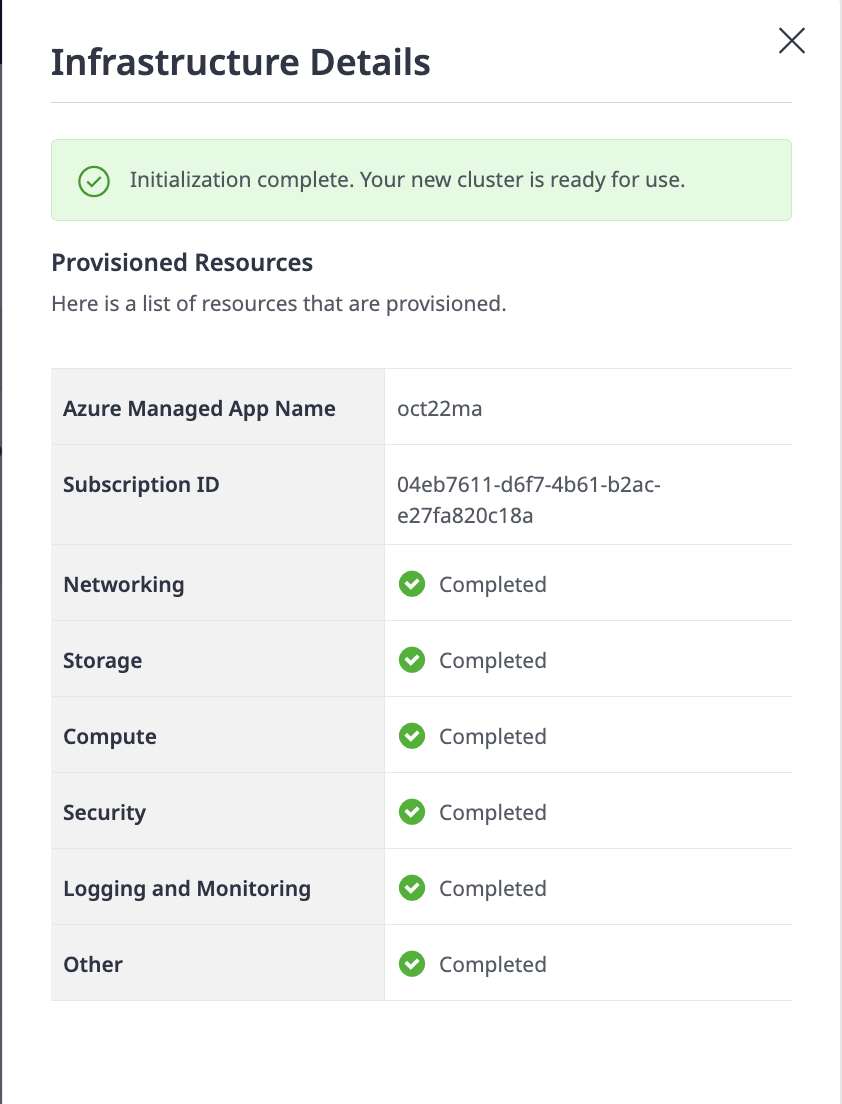
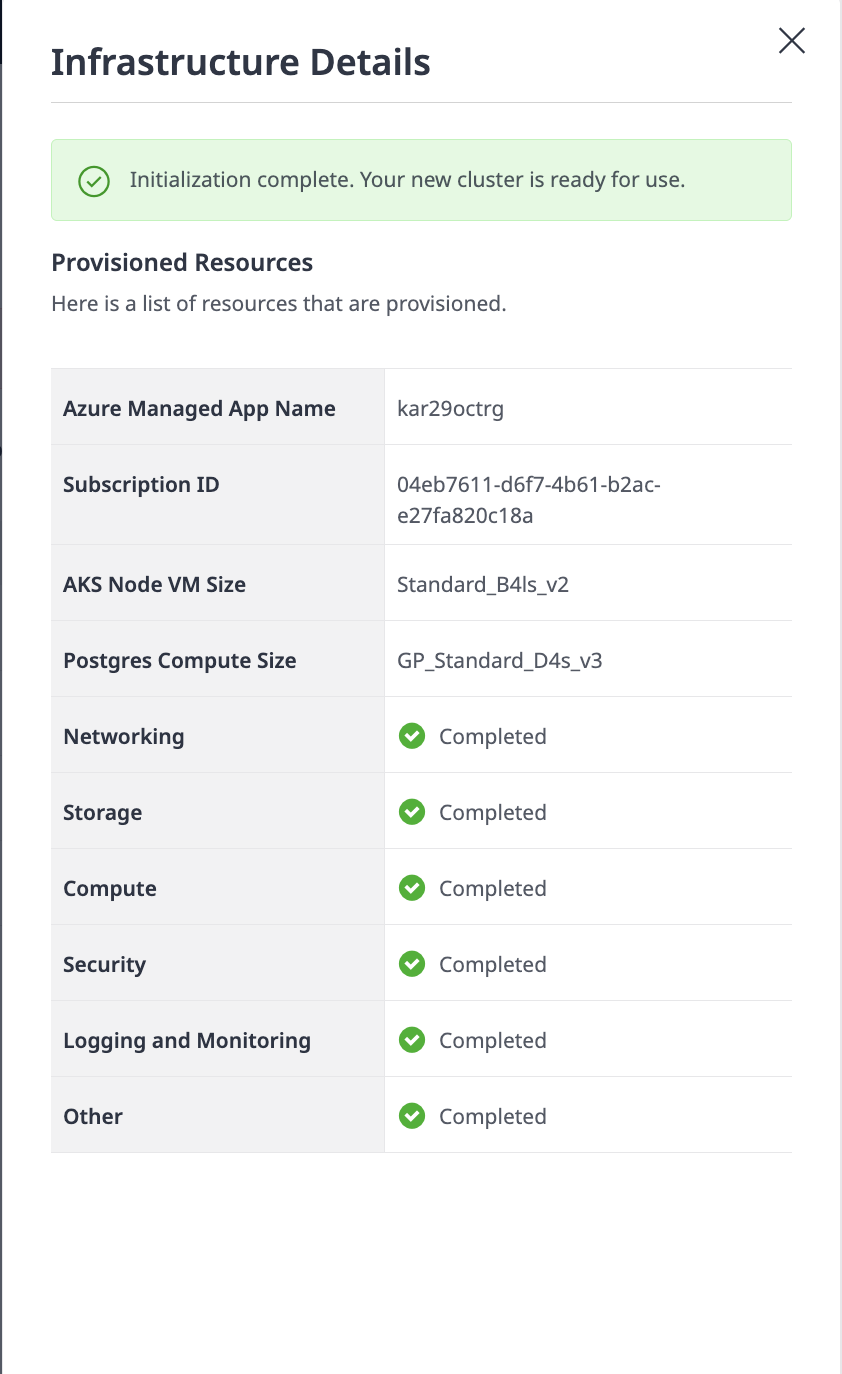
New release notes for Private cloud and Azure. Along with that Support policy updated

diff --git a/content/en/docs/deployment/mx-azure/mx-azure-support.md b/content/en/docs/deployment/mx-azure/mx-azure-support.md
@@ -13,8 +13,28 @@ To facilitate sharing this information with internal stakeholders, a downloadabl
 
 This document outlines the technical support policies and limitations for Mendix on Azure, based on the shared responsibility model that underpins the offering.
 
+{{< figure src="/attachments/deployment/mx-azure/SharedResponsibility.png" class="no-border" >}}
+
+## Managed nature of Mendix on Azure
+With Mendix on Azure, you get a managed service to host Mendix apps in an Azuresubscription you own. The Mendix on Azure service is comprised of several underlying Azure services combined with three Mendix-specific components (the Mendix Runtime, Operator and Agent). Mendix deploys and operates all services and components within the scope of the Mendix on Azure service for you.
+
+Hosting Mendix apps on underlying Azure services you deploy and operate yourself (as can be done by adopting our Mendix on Kubernetes offering) provides you maximal low-level choice, control and customization options with regards to these underlying services. By contrast, Mendix on Azure only provides you a relatively limited set of customization options with regards to these underlying services. 
+In exchange, you don’t need to worry about deploying or managing these underlying Azure services yourself. In this manner, Mendix onAzure provides you a turnkey solution for hosting Mendix apps on Azure.
+
+Mendix deploys and manages the following components and services as part of Mendix on Azure: 
+* Azure Kubernetes Service with Managed NGINX Ingress Controller (app routing add-on)
+* Azure PostgreSQL Flexible Server and Azure PostgreSQL Flexible Server replica (if enabled)
+* Azure Container Registry
+* Azure Blob Storage
+* Azure Managed Grafana
+* Azure Managed Prometheus
+* Azure Virtual Network including Private Endpoints 
+* Mendix Runtime 
+* Mendix Operator
+* Mendix Agent 
+
 {{% alert color="info" %}}  
-Before proceeding, familiarize yourself with the general Mendix support policies available in [Mendix Support](/support/).  
+These components are managed in the sense that Mendix deploys and operates them in such a manner that they work together to form a Mendix app hosting service. As a consequence, customers cannot alter these underlying components themselves beyond what is described in the next paragraph.
 {{% /alert %}}
 
 ## Shared Responsibility Model for Mendix on Azure
@@ -27,7 +47,7 @@ Microsoft manages and secures the Azure services that underlie Mendix on Azure. 
 
 * Compute - Azure Kubernetes Service (AKS)  
 * Storage - Azure Blob Storage, Azure Container Registry  
-* Database - PostgreSQL Flexible Server  
+* Database - PostgreSQL Flexible Server, Postgres replica
 * Networking - Virtual Networks, Load Balancer, Private Endpoints  
 * Monitoring - Managed Grafana and Prometheus  
 
@@ -51,13 +71,42 @@ Customers are accountable for developing, deploying, operating, integrating, and
 * Integrating - Securing integrations with backend services and IAM
 * Securing - Following Mendix best practices for secure apps
 
-## Available Customizations
 
-During cluster initialization, all components needed to host Mendix apps are deployed automatically inside an Azure Resource Group you select. Mendix and Microsoft regularly apply mandatory automated updates to keep clusters compliant and secure.
+## Limited customizabilty
 
-Due to this automation, direct modification of these components in Azure or control over the upgrade process is not possible. Customizations are limited to options exposed via the Mendix on Azure, Microsoft Azure, and Mendix on Kubernetes portals. Current allowed customizations include those documented in the [Configuration section](/developerportal/deploy/mendix-on-azure/configuration/).
+When a Mendix on Azure cluster is initialized, all components that are required to host Mendix apps are automatically deployed inside an Azure resource group in the subscription of your choosing. Regularly, Mendix and Microsoft will push all required updates to this resource group to ensure it remains compliant and secure. 
 
-Any modifications outside this documented scope are not supported.
+In order to be able to push these updates to all Mendix on Azure customers in an automated, predictable and consistent manner, you as a customer will not be able to modify any of these components directly in Azure nor can you influence this upgrade process. As a consequence, any customization beyond what is described below is not possible. 
+
+Currently the following customizations are offered self-service via the Mendix on Azure portal:
+
+* Custom tags on deployed Azure resources 
+* Set Azure Kubernetes Service tier 
+* Set Azure Kubernetes agent node VM type 
+* Set maximum AKS agent node pool size (i.e. upper autoscaling limit) 
+* Set Azure for PostgreSQL Flexible server computing SKU and storage performance tier 
+* Switch to internal load balancer exposure to enable apps that can only be reached privately 
+* Switch to internal Grafana exposure to prevent exposure to the public internet 
+* Change IP address prefix of the subnet hosting AKS nodes (only at initial deployment)
+
+Currently the following customizations are allowed to be done by the customer directly via Microsoft Azure Portal in order to establish connectivity to/from other networks and/or Azure services:
+
+* Configure virtual network peerings with the subnet hosting AKS nodes 
+* Override DNS configuration on the subnet hosting AKS nodes 
+* Configure Private Link Service to expose Mendix apps in other Azure virtual networks 
+* Configure Private Endpoints to establish connectivity between Mendix apps and other services 
+
+Mendix limits customization to what is described above to ensure a consistent, predictable and scalable customer experience.
+
+## Access to your environment by Mendix
+
+By deploying Mendix on Azure from the Azure Marketplace you provide consent for Mendix to deploy and operate the resources required for Mendix on Azure in the chosen resource group. The mechanism used by Mendix to fulfil this access is provided by Microsoft - i.e. publisher access to a Managed Application - and by definition limits the access Mendix has to your Azure subscription to the resources deployed. 
+
+Mendix will use this access for the following purposes:
+* Initial initialisation of the cluster (as initiated by the customer from Mendix on Azure portal) 
+* Pushing regular service updates (automatically, see description in the next paragraph) 
+* Pushing ad-hoc emergency updates or configuration changes to avoid service disruptions (by exception and at discretion of Mendix) 
+* To troubleshoot incidents on behalf of the customer (after raising of a support ticket by the customer)
 
 ## Support Tickets
 
@@ -110,17 +159,21 @@ These automated upgrade cadences cannot be modified by customers.
 
 ## Mendix Support Coverage Examples
 
-The following scenarios are supported:
+Mendix provides technical support for the following example scenarios: 
 
-* Cluster initialization fails despite passing pre-flight checks.
-* Service availability issues are not resolvable through self-service recovery.
+* Cluster initialization fails despite passing pre-flight validation checks 
+* Customer is experiencing service availability issues and is unable to recover the situation using the self-service recovery option.
 
-The following scenarios are not supported:
+## Mendix does not provide technical support in the following example scenarios: 
 
-* Consultations on integrations with other Azure services outside the Mendix on Azure scope; consider Mendix Expert Services or partners for consultancy.
-* Configuration changes to Azure services beyond self-service options; Mendix on Kubernetes may offer more flexibility.
-* Customizations to Azure subscription resources beyond the supported scope.
-* Manual fixes for security vulnerabilities beyond the automated update cycles.
+* Requests about how to integrate with other Azure Services that are beyond the scope of the product. Such requests can be supported by Mendix Expert Services or Mendix (infra) partners as part of (paid) consultancy engagements. 
+* Requests to make configuration changes to underlying Azure services beyond what is offered as self-service in the Mendix on Azure and Mendix Private Cloud Portal. Since such changes are not possible with this service, customer may consider to adopt Mendix on Kubernetes (formerly Mendix for Private Cloud) instead.
+* Requests for any other type of customization on the resources deployed in customer’s Azure subscription. Since such customization is not possible with this service, customer may consider to adopt Mendix for Kubernetes (formerly Mendix for Private Cloud) instead. 
+* Requests to fix security vulnerabilities in one of the managed components beyond what is automatically pushed during the weekly and quarterly update cycles.
+
+{{% alert color="warning" %}}  
+The state of the resources in the customer subscription nor overall service availability are proactively monitored by Mendix. As a consequence, any degradation in service will only reactively be addressed by Mendix after customer has notified Mendix of such degradation by filing a support ticket.
+{{% /alert %}}
 
 ## Customer Responsibilities for Mendix on Azure Resources
 
@@ -137,6 +190,15 @@ Mendix mitigates these impacts by:
 * Quarterly regression testing and workarounds where feasible  
 * Collaboration with Microsoft Support and engineering for upstream fixes  
 * Transparent communication and guidance on workarounds for affected customers  
+
+## Backup, restore, data migration & disaster recovery
+
+Mendix on Azure provides the following features to allow customers to self-service their needs with regards to backup, restore, data migration & disaster recovery: 
+
+* Mendix on Azure provides per-app environment snapshotting capabilities that allow customers to backup & restore all relevant app data from/to an environment via selfservice on the Mendix Private Cloud Portal. 
+* Mendix on Azure creates automated nightly backup snapshots for every Mendix app environment (feature is under development and to be released in the third quarter of 2025). 
+* All backup snapshots are stored in an Azure Storage Account hosted on the customer’s Azure subscription. Mendix has prepared an emergency procedure which can be performed in collaboration with the customer in case the Azure Storage Account holding the backup snapshots would accidentally get deleted from Azure. 
+* Individual backup snapshots can be downloaded and uploaded from/into a customer’s Mendix on Azure environment by the customer under self-service via the Mendix Private Cloud Portal. This provides the customer the ability to use such snapshots for disaster recovery scenarios as well as data migration scenarios to/from other deployment models. Mendix (Expert Services) is available to support customers in such scenarios, when desired.
 
 ## Compliance Frameworks
 

diff --git a/content/en/docs/releasenotes/deployment/mendix-azure.md b/content/en/docs/releasenotes/deployment/mendix-azure.md
@@ -10,6 +10,17 @@ These release notes cover changes to deployment to [Mendix on Azure](/developerp
 
 For information on the current status of Mendix deployment, see [Mendix Status](https://status.mendix.com/).
 
+### Release date: November 6, 2025
+
+* We've resolved an issue where the AKS Node VM Size field sometimes appeared empty if the corresponding Microsoft endpoint was unavailable. Now, in such cases, the field will not be available for selection, and the value chosen during the cluster's initialization will be automatically considered.
+* You can now easily view both the AKS Node VM Size and Postgres Compute Size directly within the Cluster Details section, giving you more immediate insight into your cluster's configuration.
+* We've resolved an issue where newly added Cluster Managers couldn't view clusters in Mendix on Azure Portal until after their initial visit to the portal.
+* The AKS Network Isolation feature has been disabled within the Edit Cluster flow.
+* For better clarity, we've updated the text from **Managed Grafana** to **Managed Grafana Accessibility** on both the **Initialize Cluster** and **Edit Cluster** pages.
+* If your PostgreSQL quota isn't available in a chosen region, you'll now receive a clear error message, helping you understand and resolve the situation more quickly.
+* In the **Initialize Cluster** flow, we've updated the labels for Preflight checks from **Provisioning** to **Checking** for more accurate status indication.
+* We've resolved an issue that prevented cluster initialization from proceeding when two or more clusters were being initialized concurrently within the same subscription. Now, you can initialize multiple clusters without a hitch.
+
 ### Release date: October 23, 2025 - [General Availability (GA) Release](/releasenotes/release-status/#general-availability)
 
 * In order to minimize the risk of security breaches and networking issues, we have added a new **Enable AKS Network Isolation** feature when creating new clusters. Please note that this feature can be enabled in the Initialize cluster and Edit cluster flow. However, once enabled in Initialize flow, it cannot be disabled in the Edit Cluster flow.

diff --git a/content/en/docs/releasenotes/deployment/mendix-for-private-cloud.md b/content/en/docs/releasenotes/deployment/mendix-for-private-cloud.md
@@ -12,6 +12,18 @@ For information on the current status of deployment to Mendix on Kubernetes and 
 
 ## 2025
 
+### Novembet 6, 2025
+
+#### Portal Improvements
+
+* Reduced Downtime Feature is Now Production Ready. This enhancement ensures your Mendix applications can achieve uninterrupted availability during updates. It will be automatically activated when:
+
+    * Your Mendix Operator version is 2.24 or higher.
+    * Your application is configured with 2 or more replicas.
+    
+Under these conditions, you can expect no downtime during the update process, as long as the application is using the same MDA and base OS image.
+*   Exporting **Scheduled events**, **Application details**, **PCLM Statistics** is now possible in CSV format, replacing the XLSX format.
+
 ### October 21, 2025
 
 #### Mendix Operator v2.24.0 {#2.24.0}
